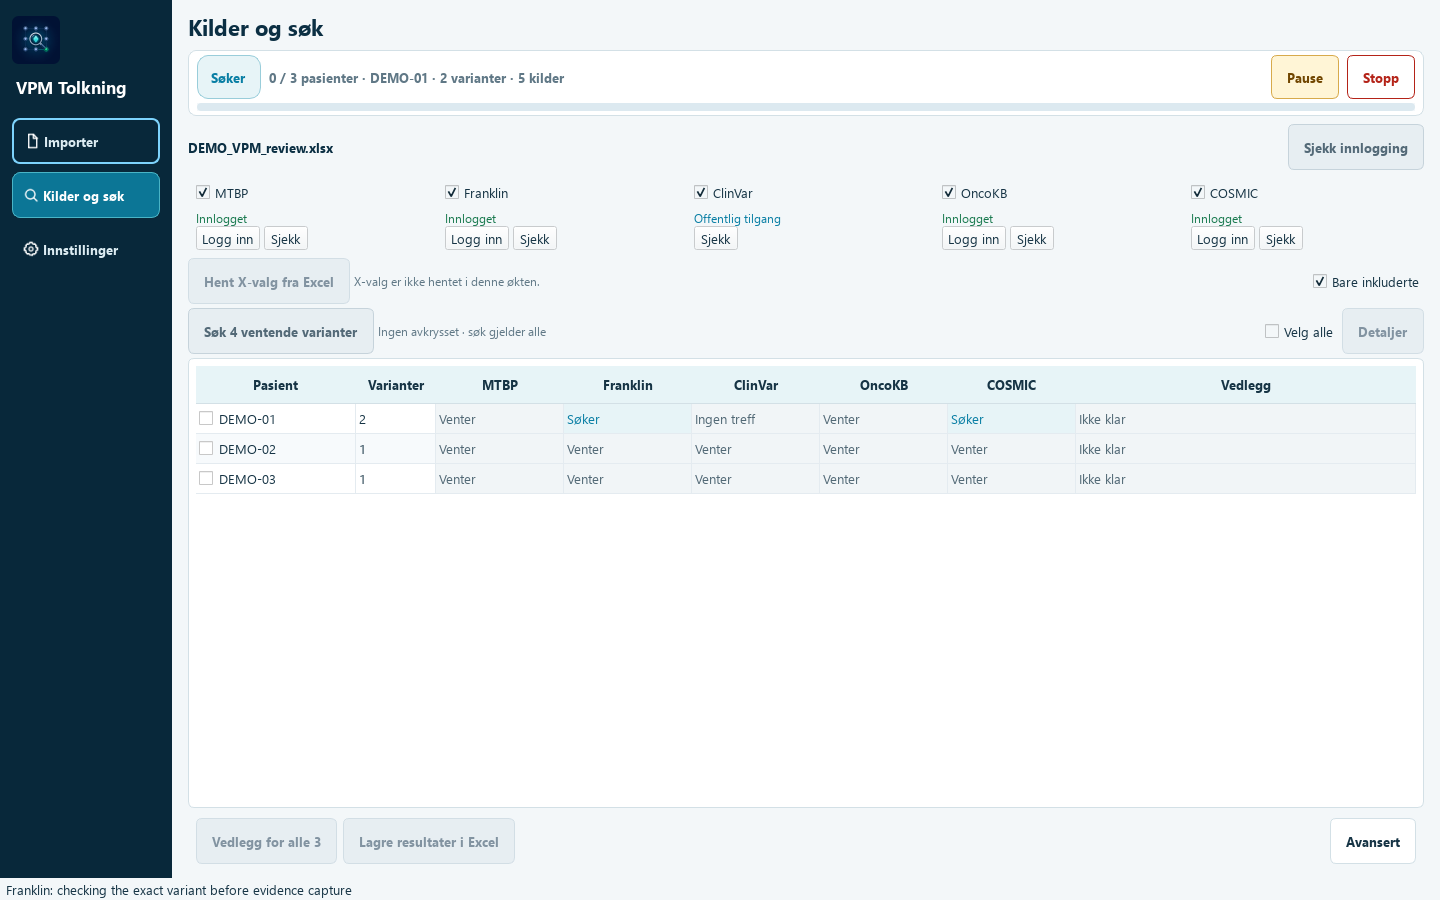
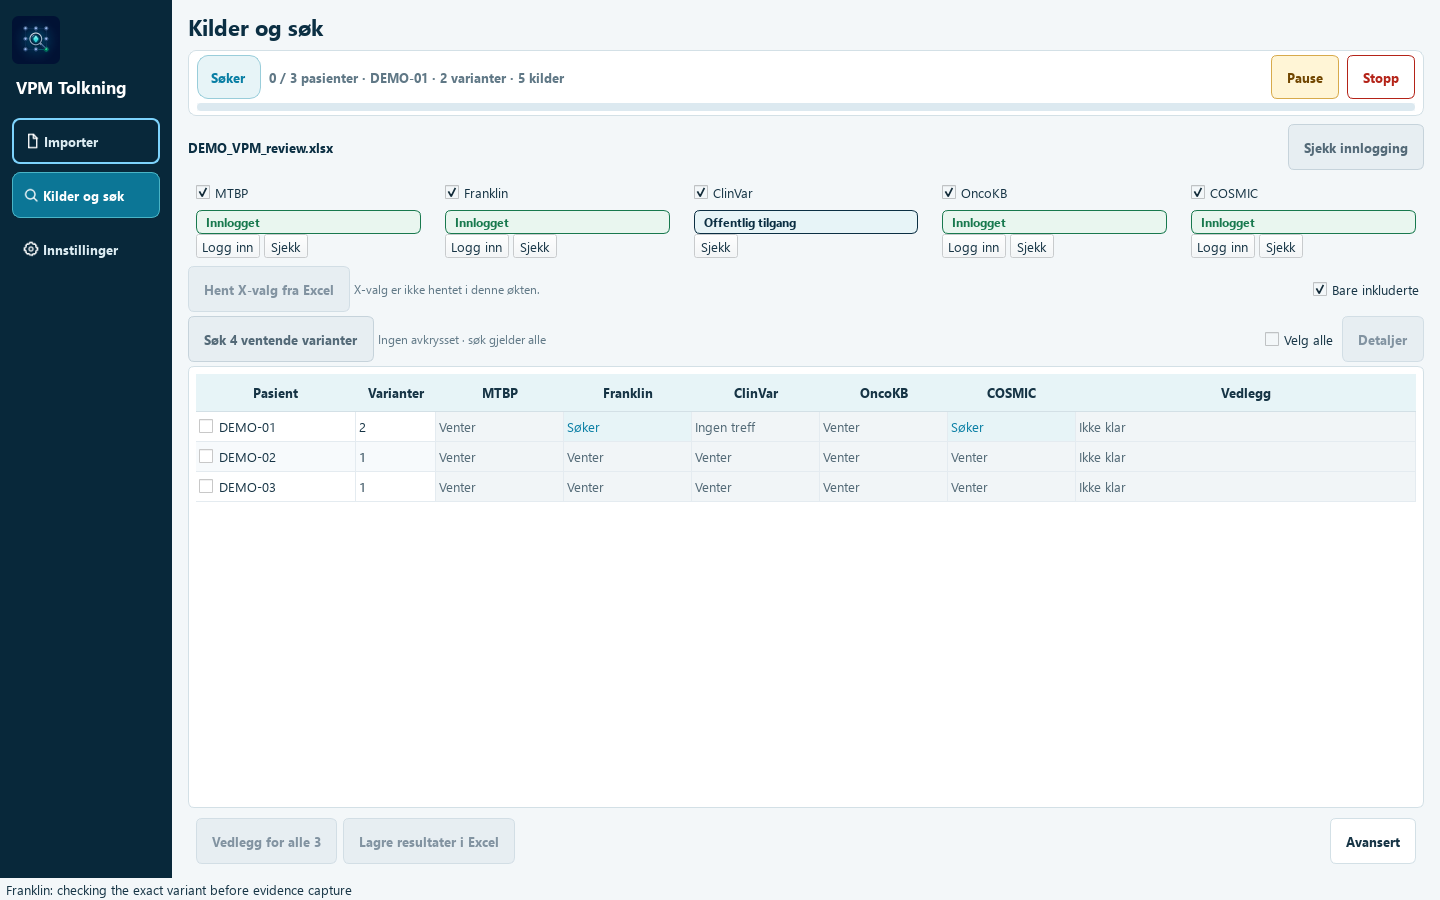
fix: show confirmed provider login with clear status badges

diff --git a/src/archer_processor/gui/app.py b/src/archer_processor/gui/app.py
@@ -720,6 +720,7 @@ class BrowserLoginWorker(QObject):
         super().__init__()
         self.database = database
         self.settings = settings
+        self.login_confirmed = False
 
     def run(self) -> None:
         try:
@@ -743,7 +744,9 @@ class BrowserLoginWorker(QObject):
                 mtbp_password=self.settings.mtbp_password,
                 browser_background=self.settings.browser_background,
             )
-            self.finished.emit(service.open_login(self.database))
+            message = service.open_login(self.database)
+            self.login_confirmed = service.login_confirmed
+            self.finished.emit(message)
         except Exception as exc:
             self.failed.emit(str(exc))
 
@@ -2782,6 +2785,10 @@ class MainWindow(QMainWindow):
         if not self._save_browser_settings():
             return
         self._browser_login_database = database
+        self._session_results.pop(database, None)
+        self.session_status_labels[database].setText("Logger inn …")
+        self.session_status_labels[database].setStyleSheet(f"color: {Palette.blue};")
+        self.session_status_labels[database].setToolTip("Venter på bekreftet innlogging i Edge.")
         self._set_busy(f"{database} sign-in")
         worker = BrowserLoginWorker(database, self.settings)
         thread = QThread(self)
@@ -2803,6 +2810,15 @@ class MainWindow(QMainWindow):
     def _browser_login_finished(self, message: str) -> None:
         self._log(message)
         database = getattr(self, "_browser_login_database", self.browser_database_combo.currentText())
+        if getattr(self.browser_worker, "login_confirmed", False):
+            from archer_processor.services.browser_sessions import BrowserSessionStatus
+            self._session_checked(BrowserSessionStatus(database, "authenticated", message))
+            self.session_check_summary.setText(
+                f"{database}: innlogging bekreftet · {datetime.now():%H:%M}. Klar til søk."
+            )
+            self._session_controls_changed()
+            self._session_release_if_stopped(self.browser_thread)
+            return
         self._session_results.pop(database, None)
         self.session_status_labels[database].setText("Sjekk på nytt")
         self.session_status_labels[database].setStyleSheet("")
@@ -2876,14 +2892,24 @@ class MainWindow(QMainWindow):
         self._session_results[result.database] = result
         text, color = {
             "authenticated": ("Innlogget", Palette.green),
-            "public": ("Offentlig tilgang", Palette.blue),
+            "public": ("Offentlig tilgang", Palette.navy),
             "login_required": ("Krever innlogging", Palette.yellow),
             "unknown": ("Ikke bekreftet", Palette.yellow),
             "error": ("Kunne ikke sjekke", Palette.red),
         }.get(result.status, ("Ikke bekreftet", Palette.yellow))
         label = self.session_status_labels[result.database]
         label.setText(text)
-        label.setStyleSheet(f"color: {color};")
+        background = {
+            "authenticated": Palette.pale_green,
+            "public": Palette.pale_blue,
+            "login_required": Palette.pale_yellow,
+            "unknown": Palette.pale_yellow,
+            "error": Palette.pale_red,
+        }.get(result.status, Palette.pale_yellow)
+        label.setStyleSheet(
+            f"color: {color}; background: {background}; border: 1px solid {color}; "
+            "border-radius: 6px; padding: 3px 6px; font-weight: 600;"
+        )
         label.setToolTip(f"Sjekket {datetime.now():%H:%M:%S}\n{result.message}")
         self._log(f"{result.database}: {text} — {result.message}")
         self._session_controls_changed()

diff --git a/tests/test_login_recovery.py b/tests/test_login_recovery.py
@@ -31,6 +31,42 @@ def wait_for_recovery(window, qt_app):
     assert window.session_check_thread is None
 
 
+@pytest.mark.parametrize("database", ["COSMIC", "OncoKB", "Franklin", "MTBP"])
+def test_confirmed_login_is_shown_as_green_without_an_extra_check(window, qt_app, monkeypatch, database):
+    class Login(QObject):
+        finished = pyqtSignal(str)
+        failed = pyqtSignal(str)
+        status = pyqtSignal(str)
+
+        def __init__(self, database, settings):
+            super().__init__()
+            self.login_confirmed = True
+
+        def run(self):
+            self.finished.emit("Synthetic authentication confirmed")
+
+    monkeypatch.setattr(app, "BrowserLoginWorker", Login)
+    window._start_browser_login(database)
+    window.browser_database_combo.setCurrentText("ClinVar")
+    wait_for_recovery(window, qt_app)
+    assert window._session_results[database].status == "authenticated"
+    label = window.session_status_labels[database]
+    assert label.text() == "Innlogget"
+    assert app.Palette.pale_green in label.styleSheet()
+    assert app.Palette.green in label.styleSheet()
+    assert "bekreftet" in window.session_check_summary.text()
+
+
+def test_login_worker_preserves_structured_confirmation(qt_app, monkeypatch):
+    def login(service, database):
+        service.login_confirmed = True
+        return "Synthetic success"
+    monkeypatch.setattr(app.BrowserReviewService, "open_login", login)
+    worker = app.BrowserLoginWorker("Franklin", AppSettings())
+    worker.run()
+    assert worker.login_confirmed
+
+
 def test_login_saves_browser_options_despite_disconnected_and_unsaved_reference_paths(window, qt_app, monkeypatch, tmp_path):
     saved, logins, warnings = [], [], []
     monkeypatch.setattr(AppSettings, "save", lambda self: saved.append(deepcopy(self)))

diff --git a/src/archer_processor/services/browser_review.py b/src/archer_processor/services/browser_review.py
@@ -160,6 +160,7 @@ class BrowserReviewService:
         self.pause_wait = pause_wait or (lambda: None)
         self.browser_background = bool(browser_background)
         self.capture_validator = capture_validator
+        self.login_confirmed = False
         self._cosmic_cache: dict[tuple[str, ...], DatabaseEvidence] = {}
         self._mtbp_rejected_transcript_queries: set[str] = set()
         self._variant_result_callback: Callable[[VariantRecord, DatabaseEvidence], None] | None = None
@@ -229,6 +230,7 @@ class BrowserReviewService:
 
     def open_login(self, database: str, *, maximum_minutes: int = 30) -> str:
         """Open login and release the profile as soon as authentication succeeds."""
+        self.login_confirmed = False
         sync_browser, browser_error, _ = self._browser_api()
         with sync_browser() as runtime:
             context = self._launch_browser_context(
@@ -245,12 +247,14 @@ class BrowserReviewService:
             page.bring_to_front()
             if self._try_saved_login(database, page):
                 context.close()
+                self.login_confirmed = True
                 return f"{database} signed in using Windows Credential Manager."
             deadline = datetime.now(timezone.utc).timestamp() + maximum_minutes * 60
             try:
                 while context.pages and datetime.now(timezone.utc).timestamp() < deadline:
                     active_page = context.pages[0]
                     if self._session_authenticated(database, active_page):
+                        self.login_confirmed = True
                         return f"{database} sign-in confirmed; browser profile released."
                     active_page.wait_for_timeout(500)
             except browser_error:

diff --git a/tests/test_edge_startup_errors.py b/tests/test_edge_startup_errors.py
@@ -12,6 +12,26 @@ from archer_processor.services.edge_cdp import (
 )
 
 
+@pytest.mark.parametrize('mode', ['saved', 'manual', 'closed'])
+def test_login_reports_confirmation_only_after_authenticated_page(tmp_path, monkeypatch, mode):
+    service = BrowserReviewService(profile_root=tmp_path)
+    context = SimpleNamespace(pages=[], close=lambda: None)
+    page = SimpleNamespace(
+        goto=lambda *a, **kw: None, bring_to_front=lambda: None,
+        wait_for_timeout=lambda ms: context.pages.clear(),
+    )
+    context.pages = [page]
+    @contextmanager
+    def runtime():
+        yield object()
+    monkeypatch.setattr(service, '_browser_api', lambda: (runtime, EdgeCdpError, EdgeCdpTimeout))
+    monkeypatch.setattr(service, '_launch_browser_context', lambda *a, **kw: context)
+    monkeypatch.setattr(service, '_try_saved_login', lambda *a: mode == 'saved')
+    monkeypatch.setattr(service, '_session_authenticated', lambda *a: mode == 'manual')
+    service.open_login('Franklin', maximum_minutes=1)
+    assert service.login_confirmed is (mode != 'closed')
+
+
 def failing_runtime(monkeypatch, service, error):
     def launch(*args, **kwargs):
         raise error

diff --git a/README.md b/README.md
@@ -133,7 +133,10 @@ Use **Sjekk innlogging** before a run to check all five dedicated Edge profiles.
 Each source reports confirmed sign-in, public access (ClinVar), sign-in required,
 unconfirmed access, or an error. The check does not enter credentials or submit
 variants. Results show the time checked; hover a status for details. Choose the
-source's **Logg inn** action when needed, then **Sjekk** again. These are separate,
+source's **Logg inn** action when needed. Confirmed login immediately shows a
+green **Innlogget** badge; closing an unconfirmed login window still asks for a
+new check. ClinVar public access has a blue badge. Text accompanies every color.
+These are separate,
 fixed actions: **Logg inn** uses the same visible login worker as **Avansert**,
 including the selected profile and current browser settings. It remains available
 for unknown/error states. **Sjekk** only checks existing access in the saved profile;
